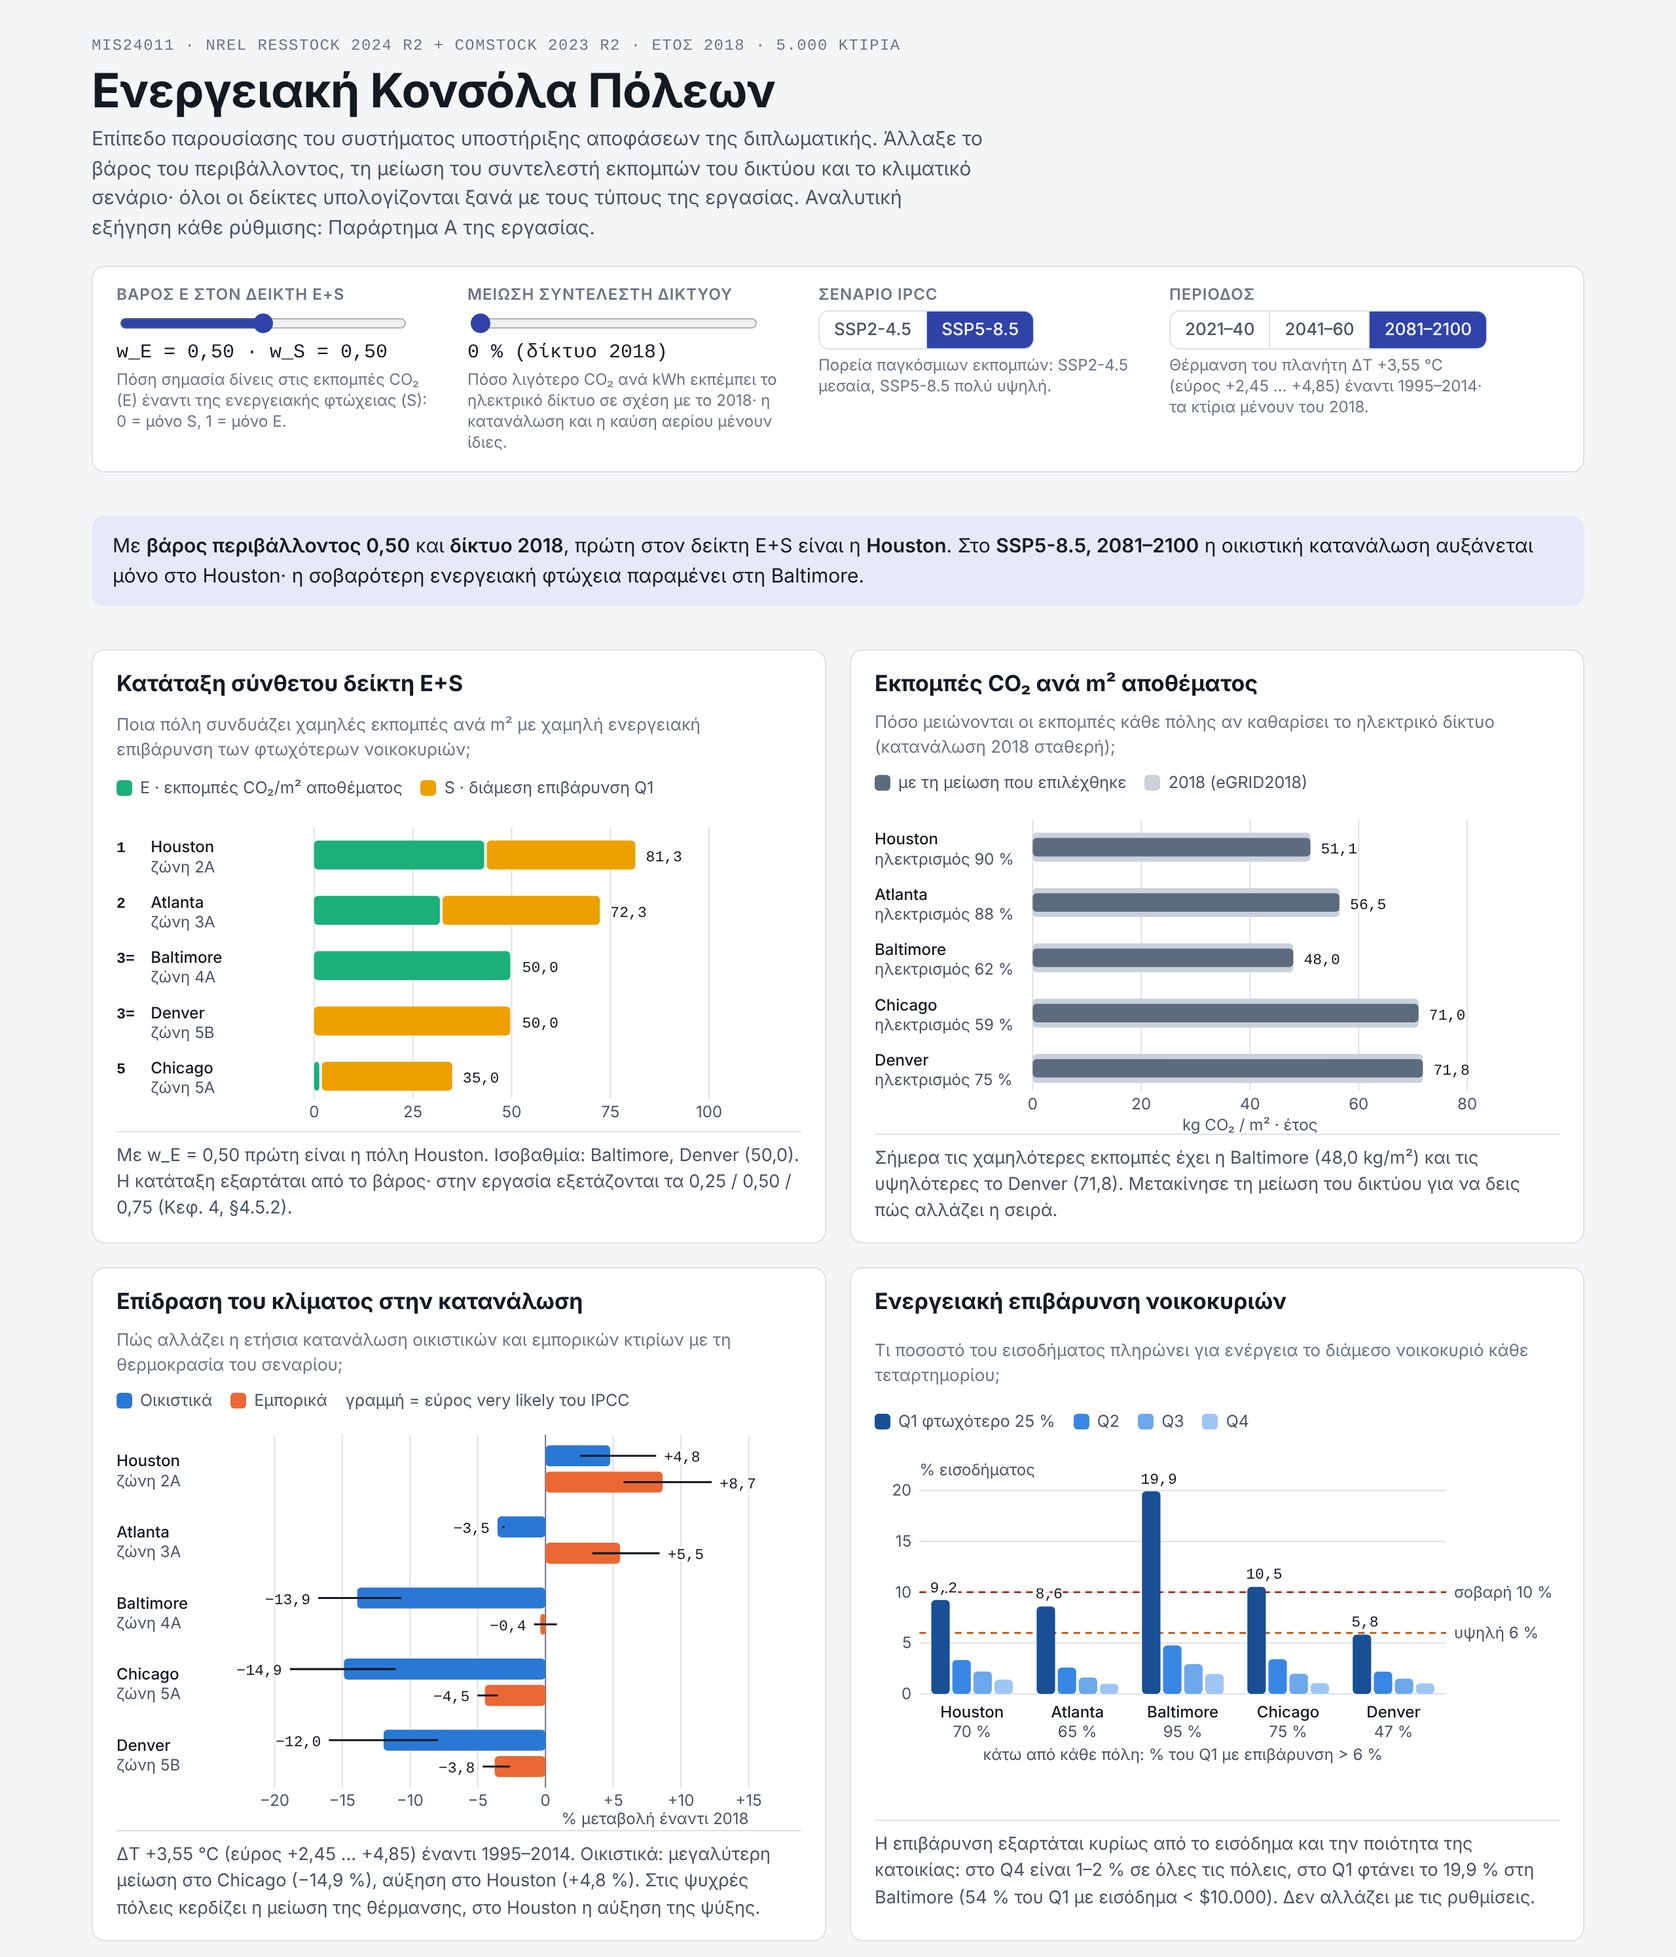
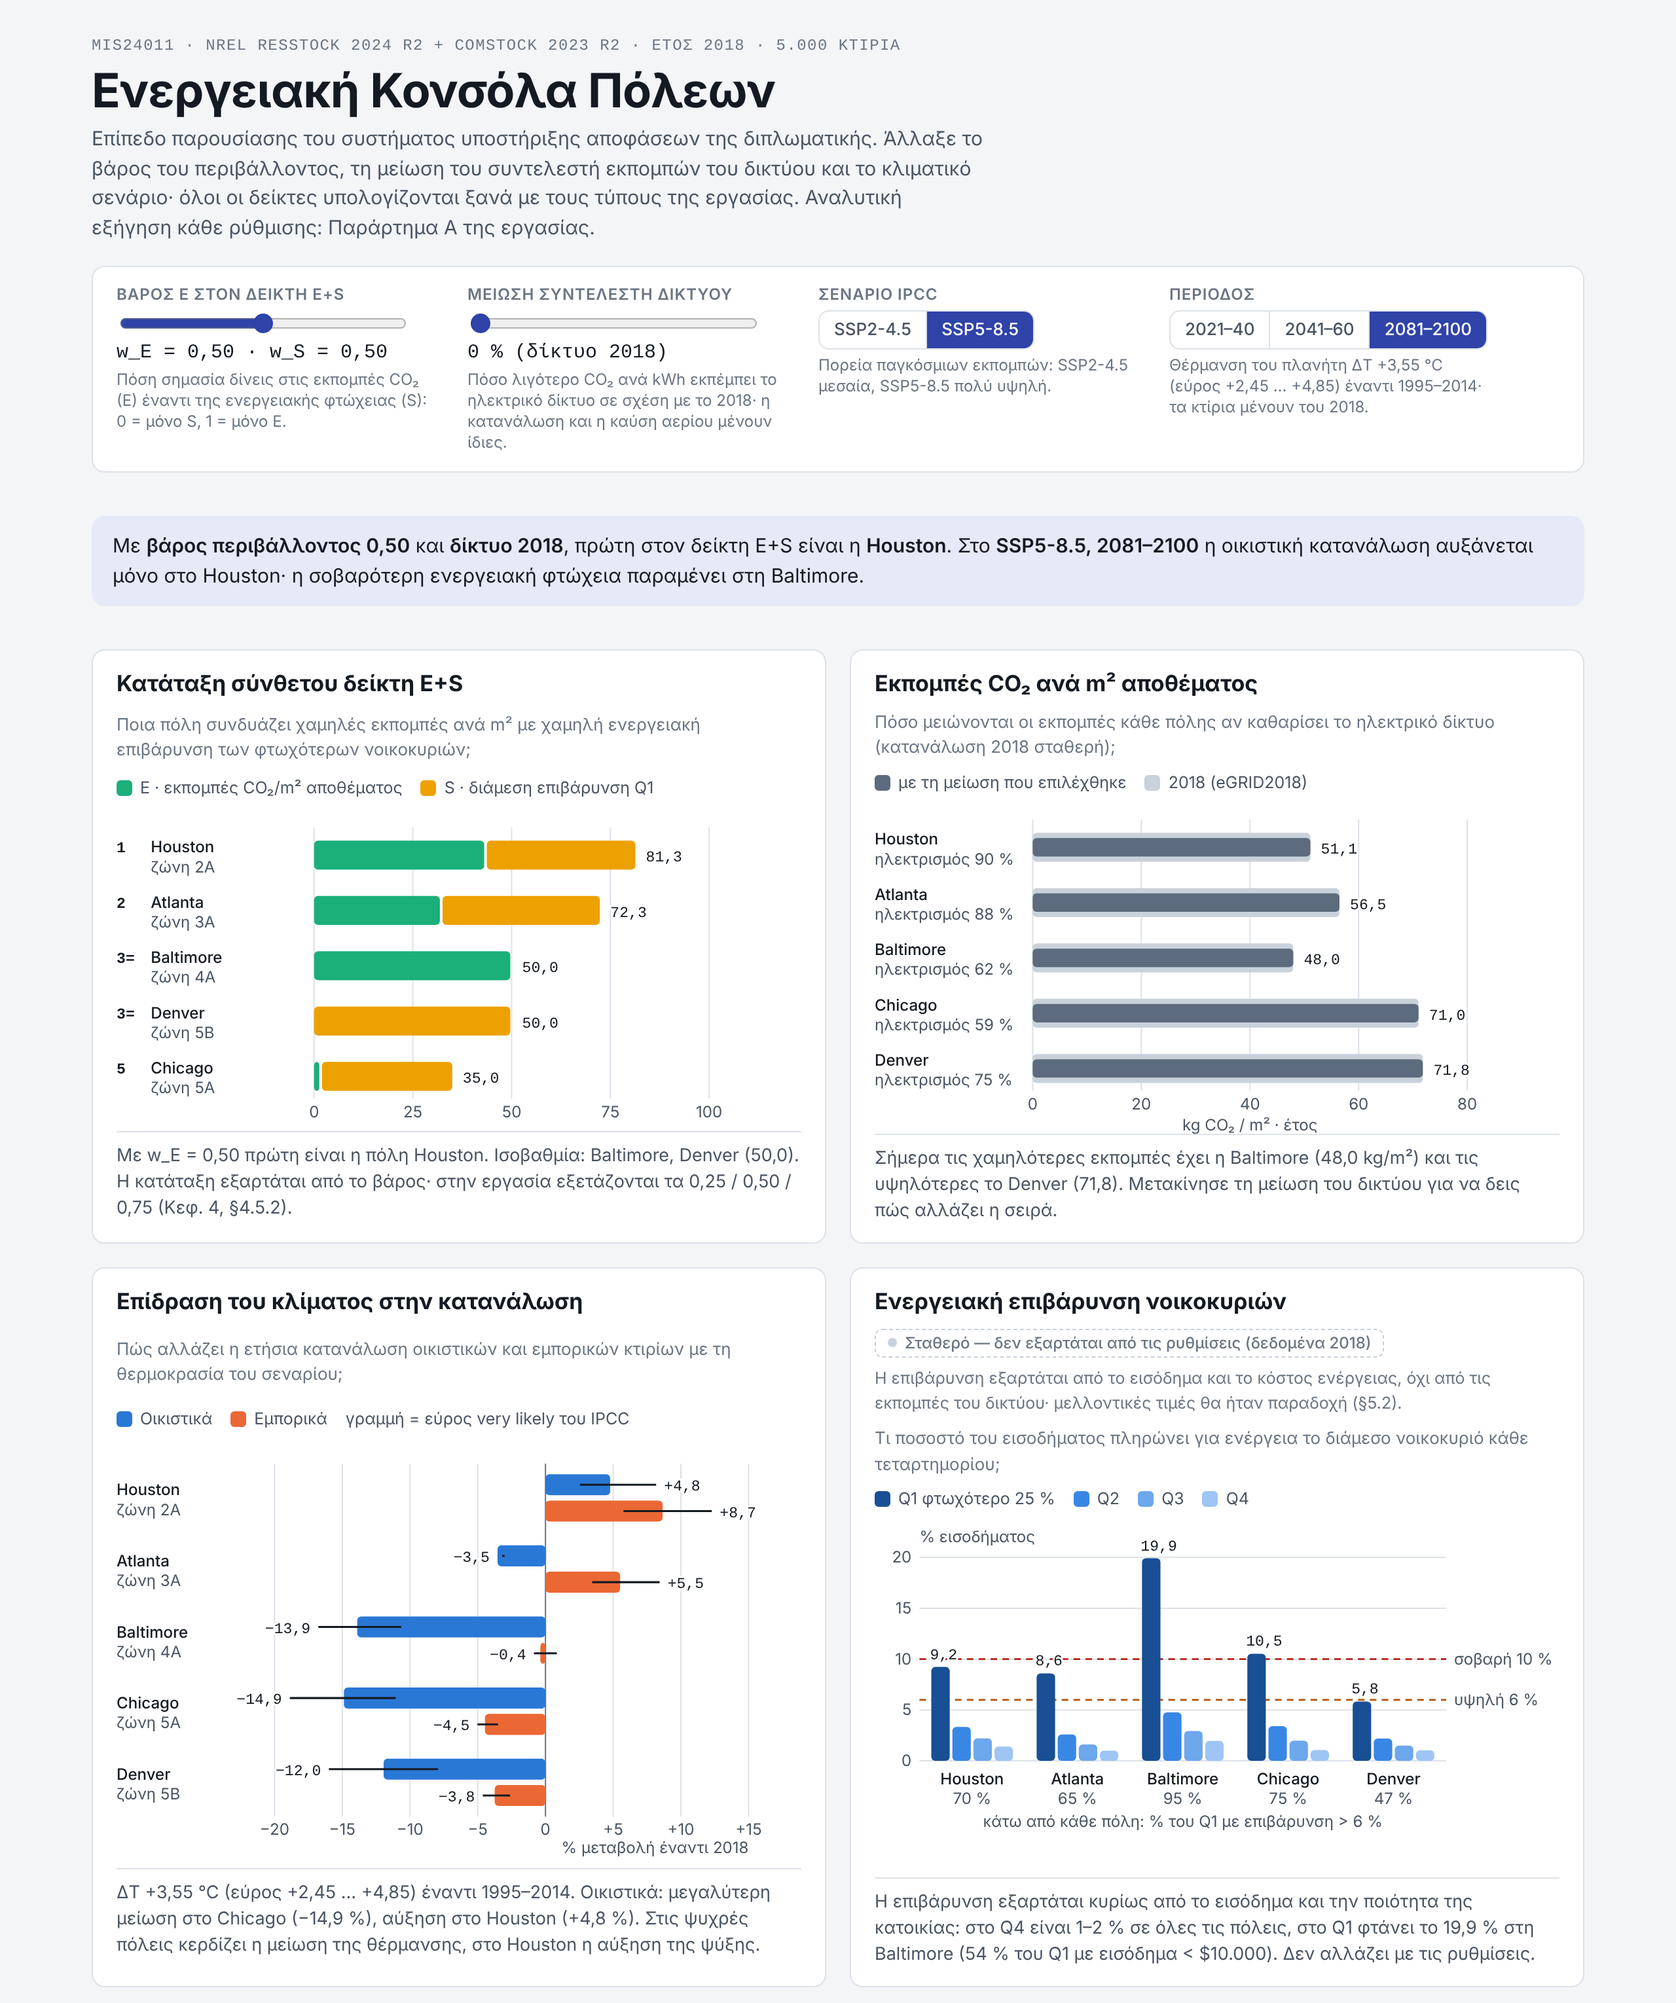
Dashboard update 17/10 (σταθεροί πίνακες)

diff --git a/dashboard/ΚΟΝΣΟΛΑ_dashboard.html b/dashboard/ΚΟΝΣΟΛΑ_dashboard.html
@@ -59,6 +59,13 @@ button:focus-visible,input:focus-visible{outline:2px solid var(--accent);outline
 .panel .q{color:var(--ink-3);font-size:13px;margin:0}
 .panel .read{color:var(--ink-2);font-size:13.5px;margin:0;border-top:1px solid var(--rule);padding-top:8px}
 .src{font:400 11.5px var(--f-mono);color:var(--ink-3)}
+/* "Fixed" badge: panels whose values do not depend on the controls (2018 data) */
+.fixed{justify-self:start;display:inline-flex;align-items:center;gap:6px;font:500 12px/1.35 var(--f-body);
+  color:var(--ink-3);border:1px dashed var(--ghost);border-radius:6px;padding:2px 9px}
+.fixed::before{content:"";width:7px;height:7px;border-radius:50%;background:var(--ghost)}
+.fixed-why{color:var(--ink-3);font-size:12.5px;margin:0}
+.deps{display:grid;gap:3px;margin:0;padding:8px 0 0;border-top:1px solid var(--rule);color:var(--ink-2);font-size:13px;list-style:none}
+.deps b{font-weight:600;color:var(--ink)}
 svg{display:block;width:100%;height:auto;overflow:visible}
 svg text{fill:var(--ink-2);font-family:var(--f-body);font-size:12px}
 svg .num{paint-order:stroke;stroke:var(--panel);stroke-width:3px;stroke-linejoin:round;font-family:var(--f-mono);font-size:11.5px;fill:var(--ink);font-variant-numeric:tabular-nums}
@@ -143,6 +150,8 @@ footer{color:var(--ink-3);font-size:12.5px;display:grid;gap:4px}
 
     <section class="panel">
       <h2>Ενεργειακή επιβάρυνση νοικοκυριών</h2>
+      <span class="fixed">Σταθερό — δεν εξαρτάται από τις ρυθμίσεις (δεδομένα 2018)</span>
+      <p class="fixed-why">Η επιβάρυνση εξαρτάται από το εισόδημα και το κόστος ενέργειας, όχι από τις εκπομπές του δικτύου· μελλοντικές τιμές θα ήταν παραδοχή (§5.2).</p>
       <p class="q">Τι ποσοστό του εισοδήματος πληρώνει για ενέργεια το διάμεσο νοικοκυριό κάθε τεταρτημορίου;</p>
       <div class="legend"><span><i style="background:var(--q1)"></i>Q1 φτωχότερο 25 %</span><span><i style="background:var(--q2)"></i>Q2</span><span><i style="background:var(--q3)"></i>Q3</span><span><i style="background:var(--q4)"></i>Q4</span></div>
       <svg id="chBur" viewBox="0 0 520 260" role="img" aria-label="Διάμεση ενεργειακή επιβάρυνση ανά τεταρτημόριο"></svg>
@@ -151,6 +160,8 @@ footer{color:var(--ink-3);font-size:12.5px;display:grid;gap:4px}
 
     <section class="panel">
       <h2>Αξιοπιστία της ωριαίας πρόβλεψης</h2>
+      <span class="fixed">Σταθερό — δεν εξαρτάται από τις ρυθμίσεις (δεδομένα 2018)</span>
+      <p class="fixed-why">Η αξιοπιστία είναι ιδιότητα του μοντέλου στο σύνολο ελέγχου του 2018, όχι του σεναρίου.</p>
       <p class="q">Πόσο καλύτερα από την «προηγούμενη ώρα» προβλέπει κάθε μοντέλο; Οι γραμμές είναι διαστήματα 95 % (bootstrap ανά κτίριο).</p>
       <div class="legend"><span><span class="mk" style="background:var(--ink)"></span>Πόλεις ελέγχου 2A–5A</span><span><span class="mk" style="background:var(--panel)"></span>Denver 5B, εκτός εκπαίδευσης</span></div>
       <svg id="chSkill" viewBox="0 0 520 190" role="img" aria-label="Skill μοντέλων με διαστήματα εμπιστοσύνης"></svg>
@@ -159,6 +170,8 @@ footer{color:var(--ink-3);font-size:12.5px;display:grid;gap:4px}
 
     <section class="panel">
       <h2>Αιχμή και ετεροχρονισμός</h2>
+      <span class="fixed">Σταθερό — δεν εξαρτάται από τις ρυθμίσεις (δεδομένα 2018)</span>
+      <p class="fixed-why">Ο DF υπολογίζεται από τα ωριαία φορτία του 2018· το κλιματικό μοντέλο δίνει μόνο τη μεταβολή της ετήσιας κατανάλωσης.</p>
       <p class="q">Πόσο μικρότερη είναι η αιχμή της πόλης από το άθροισμα των ατομικών αιχμών, και πότε συμβαίνει;</p>
       <div class="tablewrap"><table id="tbDf"></table></div>
       <p class="read">DF = Σ ατομικών αιχμών / αιχμή του συνόλου, σταθμισμένο με το απόθεμα κάθε κομητείας. DF 1,37 σημαίνει ότι το δίκτυο βλέπει αιχμή 27 % μικρότερη από το άθροισμα (1 − 1/DF).</p>
@@ -168,6 +181,12 @@ footer{color:var(--ink-3);font-size:12.5px;display:grid;gap:4px}
   <section class="panel">
     <h2>Πίνακας σύνοψης με τις τρέχουσες ρυθμίσεις</h2>
     <div class="tablewrap"><table id="tbSum"></table></div>
+    <ul class="deps" aria-label="Ποια ρύθμιση αλλάζει κάθε στήλη">
+      <li><b>Θέση E+S, Σύνθετος:</b> αλλάζουν με το βάρος E και τη μείωση του συντελεστή δικτύου.</li>
+      <li><b>CO₂ kg/m²:</b> αλλάζει με τη μείωση του συντελεστή δικτύου.</li>
+      <li><b>Οικ., Εμπ.:</b> αλλάζουν με το κλιματικό σενάριο και την περίοδο.</li>
+      <li><b>Επιβάρυνση Q1, DF πόλης:</b> σταθερά (δεδομένα 2018).</li>
+    </ul>
   </section>
 
   <footer>

diff --git a/v2/dashboard_template.html b/v2/dashboard_template.html
@@ -57,6 +57,13 @@ button:focus-visible,input:focus-visible{outline:2px solid var(--accent);outline
 .panel .q{color:var(--ink-3);font-size:13px;margin:0}
 .panel .read{color:var(--ink-2);font-size:13.5px;margin:0;border-top:1px solid var(--rule);padding-top:8px}
 .src{font:400 11.5px var(--f-mono);color:var(--ink-3)}
+/* "Fixed" badge: panels whose values do not depend on the controls (2018 data) */
+.fixed{justify-self:start;display:inline-flex;align-items:center;gap:6px;font:500 12px/1.35 var(--f-body);
+  color:var(--ink-3);border:1px dashed var(--ghost);border-radius:6px;padding:2px 9px}
+.fixed::before{content:"";width:7px;height:7px;border-radius:50%;background:var(--ghost)}
+.fixed-why{color:var(--ink-3);font-size:12.5px;margin:0}
+.deps{display:grid;gap:3px;margin:0;padding:8px 0 0;border-top:1px solid var(--rule);color:var(--ink-2);font-size:13px;list-style:none}
+.deps b{font-weight:600;color:var(--ink)}
 svg{display:block;width:100%;height:auto;overflow:visible}
 svg text{fill:var(--ink-2);font-family:var(--f-body);font-size:12px}
 svg .num{paint-order:stroke;stroke:var(--panel);stroke-width:3px;stroke-linejoin:round;font-family:var(--f-mono);font-size:11.5px;fill:var(--ink);font-variant-numeric:tabular-nums}
@@ -141,6 +148,8 @@ footer{color:var(--ink-3);font-size:12.5px;display:grid;gap:4px}
 
     <section class="panel">
       <h2>Ενεργειακή επιβάρυνση νοικοκυριών</h2>
+      <span class="fixed">Σταθερό — δεν εξαρτάται από τις ρυθμίσεις (δεδομένα 2018)</span>
+      <p class="fixed-why">Η επιβάρυνση εξαρτάται από το εισόδημα και το κόστος ενέργειας, όχι από τις εκπομπές του δικτύου· μελλοντικές τιμές θα ήταν παραδοχή (§5.2).</p>
       <p class="q">Τι ποσοστό του εισοδήματος πληρώνει για ενέργεια το διάμεσο νοικοκυριό κάθε τεταρτημορίου;</p>
       <div class="legend"><span><i style="background:var(--q1)"></i>Q1 φτωχότερο 25 %</span><span><i style="background:var(--q2)"></i>Q2</span><span><i style="background:var(--q3)"></i>Q3</span><span><i style="background:var(--q4)"></i>Q4</span></div>
       <svg id="chBur" viewBox="0 0 520 260" role="img" aria-label="Διάμεση ενεργειακή επιβάρυνση ανά τεταρτημόριο"></svg>
@@ -149,6 +158,8 @@ footer{color:var(--ink-3);font-size:12.5px;display:grid;gap:4px}
 
     <section class="panel">
       <h2>Αξιοπιστία της ωριαίας πρόβλεψης</h2>
+      <span class="fixed">Σταθερό — δεν εξαρτάται από τις ρυθμίσεις (δεδομένα 2018)</span>
+      <p class="fixed-why">Η αξιοπιστία είναι ιδιότητα του μοντέλου στο σύνολο ελέγχου του 2018, όχι του σεναρίου.</p>
       <p class="q">Πόσο καλύτερα από την «προηγούμενη ώρα» προβλέπει κάθε μοντέλο; Οι γραμμές είναι διαστήματα 95 % (bootstrap ανά κτίριο).</p>
       <div class="legend"><span><span class="mk" style="background:var(--ink)"></span>Πόλεις ελέγχου 2A–5A</span><span><span class="mk" style="background:var(--panel)"></span>Denver 5B, εκτός εκπαίδευσης</span></div>
       <svg id="chSkill" viewBox="0 0 520 190" role="img" aria-label="Skill μοντέλων με διαστήματα εμπιστοσύνης"></svg>
@@ -157,6 +168,8 @@ footer{color:var(--ink-3);font-size:12.5px;display:grid;gap:4px}
 
     <section class="panel">
       <h2>Αιχμή και ετεροχρονισμός</h2>
+      <span class="fixed">Σταθερό — δεν εξαρτάται από τις ρυθμίσεις (δεδομένα 2018)</span>
+      <p class="fixed-why">Ο DF υπολογίζεται από τα ωριαία φορτία του 2018· το κλιματικό μοντέλο δίνει μόνο τη μεταβολή της ετήσιας κατανάλωσης.</p>
       <p class="q">Πόσο μικρότερη είναι η αιχμή της πόλης από το άθροισμα των ατομικών αιχμών, και πότε συμβαίνει;</p>
       <div class="tablewrap"><table id="tbDf"></table></div>
       <p class="read">DF = Σ ατομικών αιχμών / αιχμή του συνόλου, σταθμισμένο με το απόθεμα κάθε κομητείας. DF 1,37 σημαίνει ότι το δίκτυο βλέπει αιχμή 27 % μικρότερη από το άθροισμα (1 − 1/DF).</p>
@@ -166,6 +179,12 @@ footer{color:var(--ink-3);font-size:12.5px;display:grid;gap:4px}
   <section class="panel">
     <h2>Πίνακας σύνοψης με τις τρέχουσες ρυθμίσεις</h2>
     <div class="tablewrap"><table id="tbSum"></table></div>
+    <ul class="deps" aria-label="Ποια ρύθμιση αλλάζει κάθε στήλη">
+      <li><b>Θέση E+S, Σύνθετος:</b> αλλάζουν με το βάρος E και τη μείωση του συντελεστή δικτύου.</li>
+      <li><b>CO₂ kg/m²:</b> αλλάζει με τη μείωση του συντελεστή δικτύου.</li>
+      <li><b>Οικ., Εμπ.:</b> αλλάζουν με το κλιματικό σενάριο και την περίοδο.</li>
+      <li><b>Επιβάρυνση Q1, DF πόλης:</b> σταθερά (δεδομένα 2018).</li>
+    </ul>
   </section>
 
   <footer>
